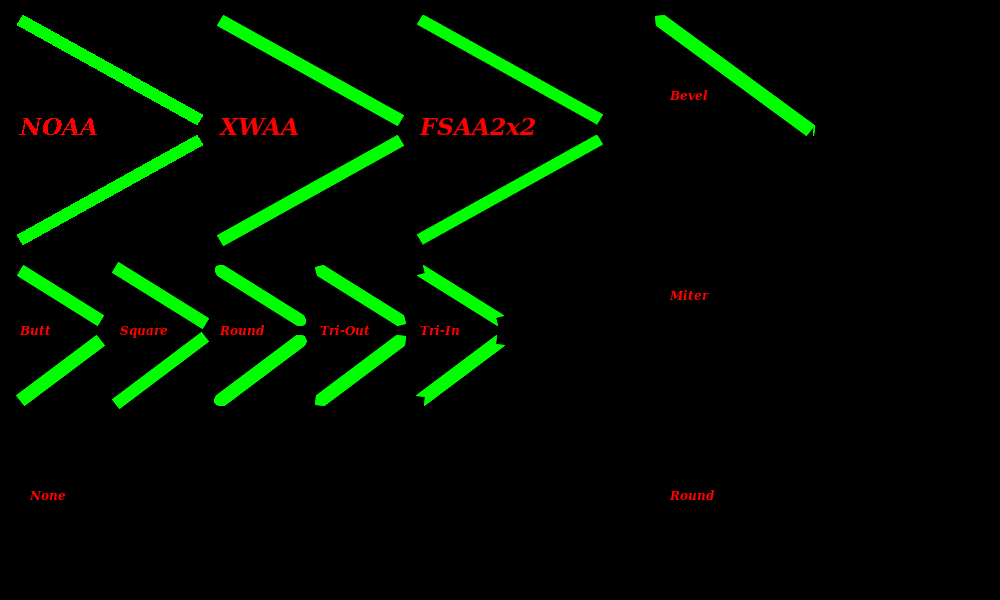
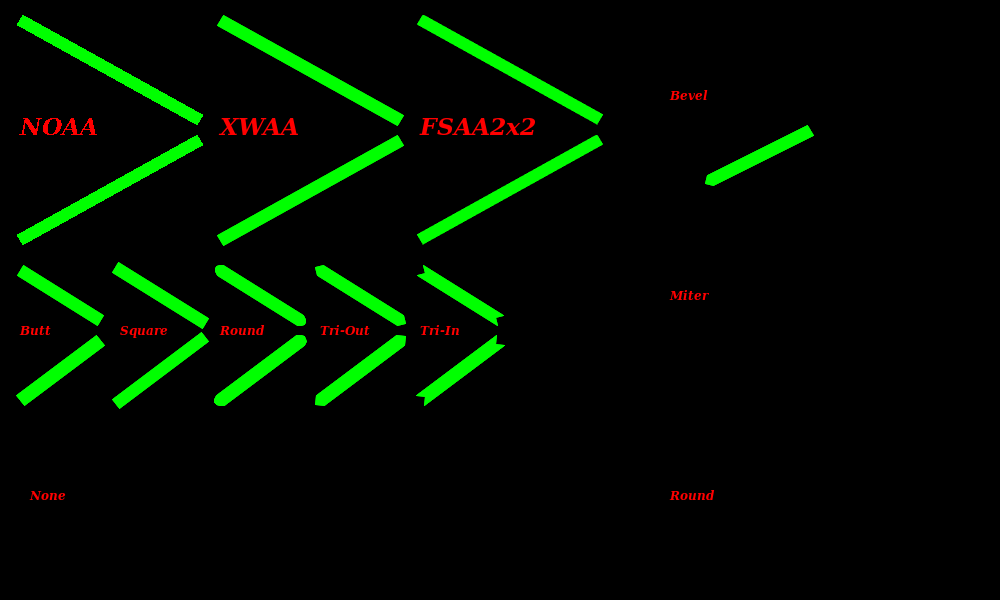
Working on thick polygon outline

Changed region(s): [[0.651, 0.03, 0.837, 0.3]]

diff --git a/src/Pt-Gfx/tests/ImagePainterTest2_Draw_Thick.cpp b/src/Pt-Gfx/tests/ImagePainterTest2_Draw_Thick.cpp
@@ -83,17 +83,17 @@ static void testDrawSolidThickLine(const char* title, Image& image, Painter& pai
     // Test joins
     painter.setPen(penOCapBJoin);
     const PointF poly1a[] = { // CCW
-        PointF(650 + 10,  20),
+        PointF(700 + 10, 180),
         PointF(800 + 10, 130),
-        PointF(700 + 10, 180)
+        PointF(650 + 10,  20)
     };
     if(ip2) ip2->drawPolyline( poly1a, sizeof(poly1a) / sizeof(poly1a[0]), false );
     else painter.drawPolyline( poly1a, sizeof(poly1a) / sizeof(poly1a[0]) );
 
     const PointF poly1b[] = { // CCW
-        PointF(650 + 170,  20),
+        PointF(700 + 170, 180),
         PointF(800 + 170, 130),
-        PointF(700 + 170, 180)
+        PointF(650 + 170,  20)
     };
     if(ip2) ip2->drawPolyline( poly1b, sizeof(poly1b) / sizeof(poly1b[0]), true );
     else painter.drawPolyline( poly1b, sizeof(poly1b) / sizeof(poly1b[0]) );
@@ -102,17 +102,17 @@ static void testDrawSolidThickLine(const char* title, Image& image, Painter& pai
 
     painter.setPen(penOCapMJoin);
     const PointF poly2a[] = { // CCW
-        PointF(650 + 10,  20 + 200),
+        PointF(700 + 10, 180 + 200),
         PointF(800 + 10, 130 + 200),
-        PointF(700 + 10, 180 + 200)
+        PointF(650 + 10,  20 + 200)
     };
     if(ip2) ip2->drawPolyline( poly2a, sizeof(poly2a) / sizeof(poly2a[0]), false );
     else painter.drawPolyline( poly2a, sizeof(poly2a) / sizeof(poly2a[0]) );
 
     const PointF poly2b[] = { // CCW
-        PointF(650 + 170,  20 + 200),
+        PointF(700 + 170, 180 + 200),
         PointF(800 + 170, 130 + 200),
-        PointF(700 + 170, 180 + 200)
+        PointF(650 + 170,  20 + 200)
     };
     if(ip2) ip2->drawPolyline( poly2b, sizeof(poly2b) / sizeof(poly2b[0]), true );
     else painter.drawPolyline( poly2b, sizeof(poly2b) / sizeof(poly2b[0]) );
@@ -129,9 +129,9 @@ static void testDrawSolidThickLine(const char* title, Image& image, Painter& pai
     else painter.drawPolyline( poly3a, sizeof(poly3a) / sizeof(poly3a[0]) );
 
     const PointF poly3b[] = { // CCW
-        PointF(650 + 170,  20 + 400),
+        PointF(700 + 170, 180 + 400),
         PointF(800 + 170, 130 + 400),
-        PointF(700 + 170, 180 + 400)
+        PointF(650 + 170,  20 + 400)
     };
     if(ip2) ip2->drawPolyline( poly3b, sizeof(poly3b) / sizeof(poly3b[0]), true );
     else painter.drawPolyline( poly3b, sizeof(poly3b) / sizeof(poly3b[0]) );
@@ -140,17 +140,17 @@ static void testDrawSolidThickLine(const char* title, Image& image, Painter& pai
 
     painter.setPen(penOCapNJoin);
     const PointF poly4a[] = { // CCW
-        PointF(650 - 600 - 30,  20 + 400),
+        PointF(700 - 600 - 30, 180 + 400),
         PointF(800 - 600 - 30, 130 + 400),
-        PointF(700 - 600 - 30, 180 + 400)
+        PointF(650 - 600 - 30,  20 + 400)
     };
     if(ip2) ip2->drawPolyline( poly4a, sizeof(poly4a) / sizeof(poly4a[0]), false );
     else painter.drawPolyline( poly4a, sizeof(poly4a) / sizeof(poly4a[0]) );
 
     const PointF poly4b[] = { // CCW
-        PointF(650 - 430 - 40,  20 + 400),
+        PointF(700 - 430 - 40, 180 + 400),
         PointF(800 - 430 - 40, 130 + 400),
-        PointF(700 - 430 - 40, 180 + 400)
+        PointF(650 - 430 - 40,  20 + 400)
     };
     if(ip2) ip2->drawPolyline( poly4b, sizeof(poly4b) / sizeof(poly4b[0]), true );
     else painter.drawPolyline( poly4b, sizeof(poly4b) / sizeof(poly4b[0]) );

diff --git a/include/Pt/Gfx/ImagePainter2.h b/include/Pt/Gfx/ImagePainter2.h
@@ -92,24 +92,27 @@ class PT_GFX_API ImagePainter2 : public Painter
 
         virtual void drawRect(const RectF& rect);
 
+        // NOTE: The points must move in counter-clockwise (CCW) direction or something wrong will be drawn!
         virtual void drawPolyline(const PointF* points, const size_t pointCount, bool autoClose);
 
-        // autoClose == false : the number of points must be >= 3 and odd
-        // autoClose == true  : the number of points must be >= 4 and even
+        // NOTE: The points must move in counter-clockwise (CCW) direction or something wrong will be drawn!
+        //       When autoClose == false : the number of points must be >= 3 and odd
+        //       When autoClose == true  : the number of points must be >= 4 and even
         virtual void drawQuadraticPolybezier(const PointF* points, const size_t pointCount, bool autoClose);
 
         virtual void drawEllipse(const PointF& topLeft, const SizeF& size);
 
-        // NOTE: The begin and end angle must move in counter-clockwise direction or something wrong will be drawn!
+        // NOTE: The begin and end angle must move in counter-clockwise (CCW) direction or something wrong will be drawn!
         virtual void drawArc(const PointF& topLeft, const SizeF& size, float degBegin, float degEnd, const ArcMode& arcMode);
 
         virtual void fillRect(const RectF& rect);
 
+        // NOTE: The points must move in counter-clockwise (CCW) direction or something wrong will be drawn!
         virtual void fillPolygon(const PointF* points, const size_t pointCount);
 
         virtual void fillEllipse(const PointF& topLeft, const SizeF& size);
 
-        // NOTE: The begin and end angle must move in counter-clockwise direction or something wrong will be drawn!
+        // NOTE: The begin and end angle must move in counter-clockwise (CCW) direction or something wrong will be drawn!
         virtual void fillArc(const PointF& topLeft, const SizeF& size, float degBegin, float degEnd, const ArcMode& arcMode);
 
     public:

diff --git a/src/Pt-Gfx/ImagePainter2.cpp b/src/Pt-Gfx/ImagePainter2.cpp
@@ -678,7 +678,7 @@ bool ImagePainter2::combineLineSegmentForOpenPolygon(std::vector<PointF>& polygo
 
 void ImagePainter2::finalizeLineSegmentForOpenPolygon(std::vector<PointF>& polygon, const std::vector<PointF>& inner)
 {
-    polygon.insert(polygon.end(), inner.rbegin(), inner.rend());
+   // polygon.insert(polygon.end(), inner.rbegin(), inner.rend());
 }
 
 bool ImagePainter2::thickenClosedPolygon(std::vector<PointF>& pointsF, const PointF* basePtr, size_t curPCnt)
